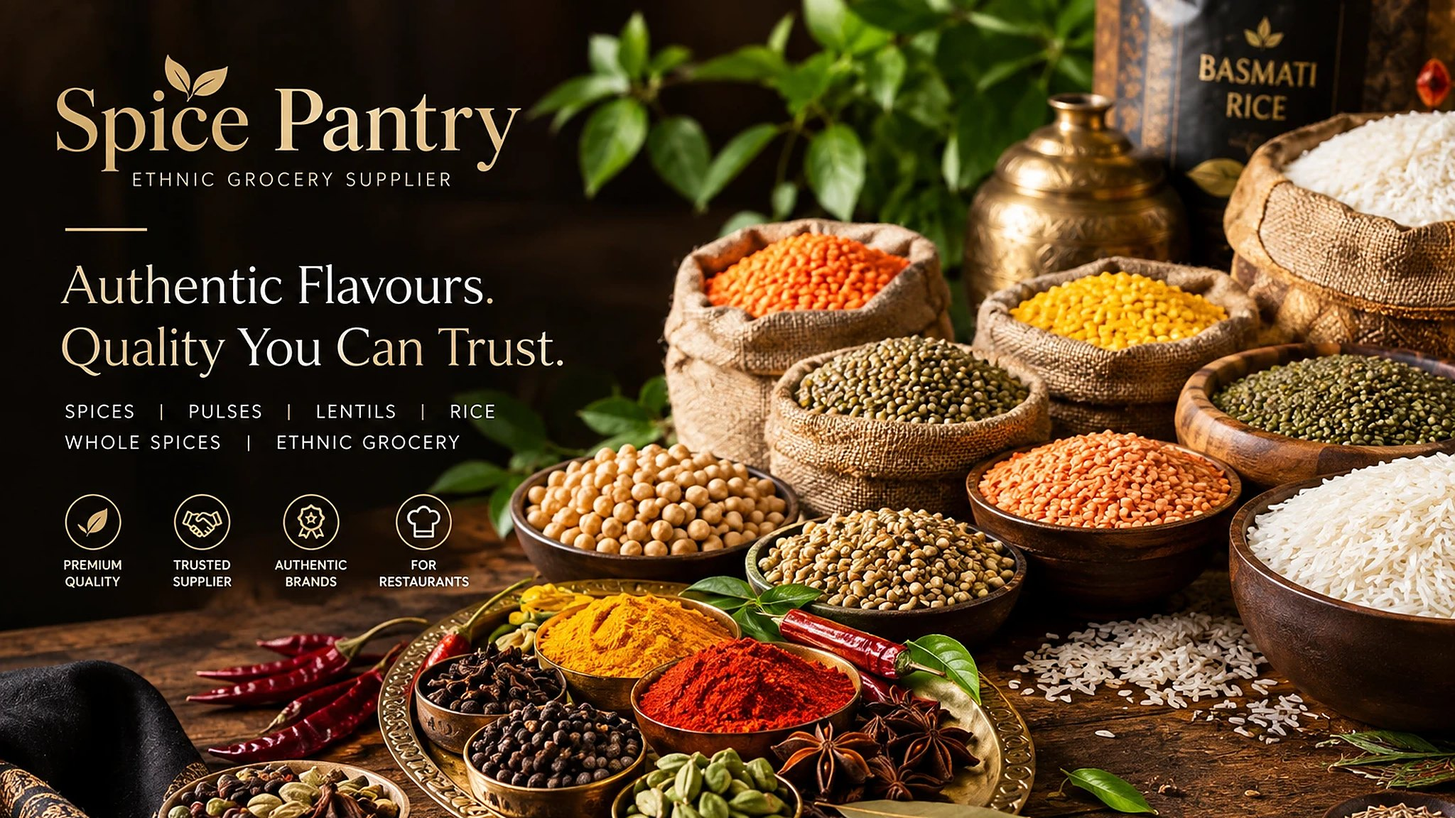
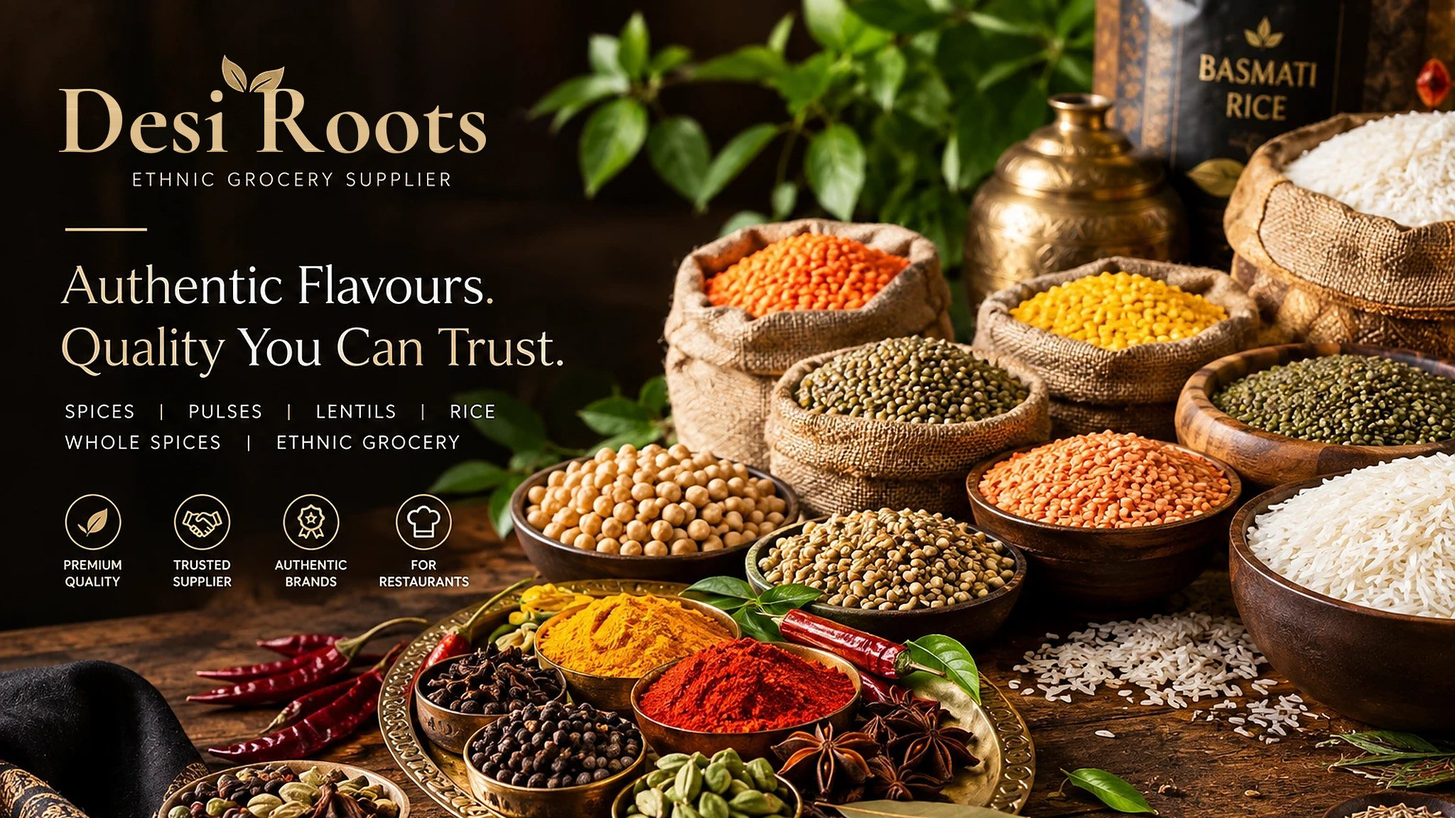
Rename the website from Spice Pantry to Desi Roots
"Spice Pantry" is a registered UK trade mark of another company, so the
site now uses the company's own name. The logo, tab icon, homepage
banners and link-preview image keep their design with the name redrawn.
Page titles, footer, legal pages, enquiry emails and admin titles updated.

Changed region(s): [[0.0312, 0.0625, 0.3438, 0.2188]]

diff --git a/templates/base.html b/templates/base.html
@@ -5,7 +5,7 @@
   <meta charset="UTF-8">
   <meta name="viewport" content="width=device-width, initial-scale=1.0">
   
-  <title>{% block meta_title %}Spice Pantry | Premium Spices & B2B Wholesale Catalogue{% endblock %}</title>
+  <title>{% block meta_title %}Desi Roots | Premium Spices & B2B Wholesale Catalogue{% endblock %}</title>
   <meta name="description" content="{% block meta_description %}Wholesale spices, lentils, rice, flour and ethnic groceries for restaurants and retailers in Bristol and nearby areas. Browse the catalogue and request a quote.{% endblock %}">
   
   <!-- Canonical URL -->
@@ -13,13 +13,13 @@
 
   <!-- Link previews (WhatsApp, Facebook, LinkedIn, X) -->
   <meta property="og:type" content="website">
-  <meta property="og:site_name" content="Spice Pantry">
+  <meta property="og:site_name" content="Desi Roots">
   <meta property="og:locale" content="en_GB">
-  <meta property="og:title" content="{% block og_title %}Spice Pantry | Wholesale Spices &amp; Groceries Bristol{% endblock %}">
+  <meta property="og:title" content="{% block og_title %}Desi Roots | Wholesale Spices &amp; Groceries Bristol{% endblock %}">
   <meta property="og:description" content="{% block og_description %}Wholesale spices, lentils, rice, flour and ethnic groceries for restaurants and retailers in Bristol and nearby areas. Browse the catalogue and request a quote.{% endblock %}">
   <meta property="og:url" content="{{ request.build_absolute_uri }}">
   <meta property="og:image" content="{% block og_image %}{{ request.scheme }}://{{ request.get_host }}{% static 'images/og-share.jpg' %}{% endblock %}">
-  <meta property="og:image:alt" content="Spice Pantry, ethnic grocery supplier: bowls of spices, lentils and rice">
+  <meta property="og:image:alt" content="Desi Roots, ethnic grocery supplier: bowls of spices, lentils and rice">
   <meta name="twitter:card" content="summary_large_image">
 
   <!-- Organization JSON-LD -->
@@ -27,7 +27,7 @@
   {
     "@context": "https://schema.org",
     "@type": "Organization",
-    "name": "Spice Pantry",
+    "name": "Desi Roots",
     "legalName": "Desi Roots",{% if site_settings.vat_number %}
     "vatID": "{{ site_settings.vat_number|cut:' ' }}",{% endif %}
     "url": "{{ request.scheme }}://{{ request.get_host }}/",
@@ -75,8 +75,8 @@
   <nav class="navbar navbar-expand-xl sticky-top">
     <div class="container">
       <a class="navbar-brand d-inline-flex align-items-center" href="/">
-        <img src="{% static 'images/logo.png' %}" alt="Spice Pantry Logo" width="46" height="46" style="height: 46px; width: auto; max-width: 48px; object-fit: contain;" class="navbar-brand-logo me-2">
-        <span class="brand-text"><span>Spice</span> Pantry</span>
+        <img src="{% static 'images/logo.png' %}" alt="Desi Roots Logo" width="46" height="46" style="height: 46px; width: auto; max-width: 48px; object-fit: contain;" class="navbar-brand-logo me-2">
+        <span class="brand-text"><span>Desi</span> Roots</span>
       </a>
       <a href="/contact/" class="btn btn-primary btn-sm text-white text-nowrap d-xl-none sp-nav-quote"><span class="d-none d-sm-inline">Request </span>Quote</a>
       <button class="navbar-toggler flex-shrink-0" type="button" data-bs-toggle="collapse" data-bs-target="#navbarNav" aria-controls="navbarNav" aria-expanded="false" aria-label="Toggle navigation">
@@ -123,9 +123,9 @@
         <div class="col-lg-4 col-md-6">
           <div class="footer-brand-wrap mb-3">
             <a class="footer-brand d-inline-flex align-items-center gap-3 text-white text-decoration-none" href="/">
-              <img src="{% static 'images/logo.png' %}" alt="Spice Pantry Logo" width="52" height="52" style="height: 52px; width: auto; max-width: 52px; object-fit: contain;" class="footer-logo-img rounded-2 bg-white p-1">
+              <img src="{% static 'images/logo.png' %}" alt="Desi Roots Logo" width="52" height="52" style="height: 52px; width: auto; max-width: 52px; object-fit: contain;" class="footer-logo-img rounded-2 bg-white p-1">
               <div>
-                <span class="fs-5 fw-bold text-white d-block" style="font-family: var(--sp-font-head); letter-spacing: 0.05em;"><span style="color: var(--sp-saffron);">Spice</span> Pantry</span>
+                <span class="fs-5 fw-bold text-white d-block" style="font-family: var(--sp-font-head); letter-spacing: 0.05em;"><span style="color: var(--sp-saffron);">Desi</span> Roots</span>
                 <small class="text-white-50 text-uppercase" style="font-size: 0.72rem; letter-spacing: 0.08em;">Wholesale Spices & Groceries</small>
               </div>
             </a>
@@ -201,7 +201,7 @@
       
       <div class="footer-bottom">
         {# Company details a UK company website must show (Companies House record for Desi Roots Ltd) #}
-        <p class="footer-legal">&copy; 2026 Spice Pantry, a trading name of Desi Roots Ltd. Registered in England and Wales, company no. 16939222. Registered office: 23 Halls Garden, Stoke Gifford, Bristol, BS34 8RJ.{% if site_settings.vat_number %} VAT no. {{ site_settings.vat_number }}.{% endif %}</p>
+        <p class="footer-legal">&copy; 2026 Desi Roots Ltd. Registered in England and Wales, company no. 16939222. Registered office: 23 Halls Garden, Stoke Gifford, Bristol, BS34 8RJ.{% if site_settings.vat_number %} VAT no. {{ site_settings.vat_number }}.{% endif %}</p>
         <nav class="footer-policy-links" aria-label="Legal">
           <a href="/privacy/">Privacy Policy</a>
           <a href="/cookies/">Cookie Policy</a>

diff --git a/templates/pages/legal/privacy.html b/templates/pages/legal/privacy.html
@@ -1,9 +1,9 @@
 {% extends 'base.html' %}
 
-{% block meta_title %}Privacy Policy | Spice Pantry{% endblock %}
-{% block meta_description %}How Desi Roots Ltd, trading as Spice Pantry, collects, uses and protects personal information.{% endblock %}
-{% block og_title %}Privacy Policy | Spice Pantry{% endblock %}
-{% block og_description %}How Desi Roots Ltd, trading as Spice Pantry, collects, uses and protects personal information.{% endblock %}
+{% block meta_title %}Privacy Policy | Desi Roots{% endblock %}
+{% block meta_description %}How Desi Roots Ltd collects, uses and protects personal information.{% endblock %}
+{% block og_title %}Privacy Policy | Desi Roots{% endblock %}
+{% block og_description %}How Desi Roots Ltd collects, uses and protects personal information.{% endblock %}
 
 {% block content %}
 <div class="py-5 bg-light border-bottom border-sp">
@@ -20,12 +20,12 @@
         {# Text supplied by the business (SPICE PANTRY.docx, 19 October 2026); publish wording unchanged #}
         <div class="bg-white p-4 p-md-5 border border-sp rounded">
           <h2 class="h5 fw-semibold mb-3">1.1 Introduction</h2>
-          <p class="text-muted">Desi Roots Ltd trading under Spice Pantry (“Spice Pantry”, “we”, “us” or “our”) respects your privacy and is committed to protecting your personal information.</p>
+          <p class="text-muted">Desi Roots Ltd (“Desi Roots”, “we”, “us” or “our”) respects your privacy and is committed to protecting your personal information.</p>
           <p class="text-muted">This Privacy Policy explains how we collect, use, store and protect personal information when you visit our website, create an account, place an order, contact us or use our services.</p>
           <p class="text-muted">We process personal information in accordance with applicable UK data protection law, including the UK General Data Protection Regulation (UK GDPR) and the Data Protection Act 2018.</p>
           <h2 class="h5 fw-semibold mb-3 mt-4">1.2 Who we are</h2>
           <p class="text-muted">The data controller responsible for your personal information is:</p>
-          <p class="text-muted"><b>Desi Roots Ltd trading under Spice Pantry</b><br>
+          <p class="text-muted"><b>Desi Roots Ltd</b><br>
 23 Halls Garden, Bristol, BS34 8RJ, United Kingdom<br>
 Email: <a href="mailto:{{ site_settings.email_address }}">{{ site_settings.email_address }}</a></p>
           <p class="text-muted">Company registration number: 16939222.</p>
@@ -132,7 +132,7 @@ Email: <a href="mailto:{{ site_settings.email_address }}">{{ site_settings.email
           <p class="text-muted">We may update this policy from time to time to reflect changes to our business, website, services or legal obligations. The updated version will be published on this page with a revised date.</p>
           <h2 class="h5 fw-semibold mb-3 mt-4">1.18 Contact us</h2>
           <p class="text-muted">For questions about this Privacy Policy or how we use your personal information, contact:</p>
-          <p class="text-muted"><b>Desi Roots Ltd trading under Spice Pantry</b><br>
+          <p class="text-muted"><b>Desi Roots Ltd</b><br>
 23 Halls Garden, Bristol, BS34 8RJ, United Kingdom<br>
 Email: <a href="mailto:{{ site_settings.email_address }}">{{ site_settings.email_address }}</a></p>
         </div>

diff --git a/templates/pages/legal/terms.html b/templates/pages/legal/terms.html
@@ -1,9 +1,9 @@
 {% extends 'base.html' %}
 
-{% block meta_title %}Terms &amp; Conditions | Spice Pantry{% endblock %}
-{% block meta_description %}The terms that apply to using the Spice Pantry website, operated by Desi Roots Ltd.{% endblock %}
-{% block og_title %}Terms &amp; Conditions | Spice Pantry{% endblock %}
-{% block og_description %}The terms that apply to using the Spice Pantry website, operated by Desi Roots Ltd.{% endblock %}
+{% block meta_title %}Terms &amp; Conditions | Desi Roots{% endblock %}
+{% block meta_description %}The terms that apply to using the Desi Roots website, operated by Desi Roots Ltd.{% endblock %}
+{% block og_title %}Terms &amp; Conditions | Desi Roots{% endblock %}
+{% block og_description %}The terms that apply to using the Desi Roots website, operated by Desi Roots Ltd.{% endblock %}
 
 {% block content %}
 <div class="py-5 bg-light border-bottom border-sp">
@@ -20,7 +20,7 @@
         {# Text supplied by the business (SPICE PANTRY.docx, 19 October 2026); publish wording unchanged #}
         <div class="bg-white p-4 p-md-5 border border-sp rounded">
           <h2 class="h5 fw-semibold mb-3">2.1 About us</h2>
-          <p class="text-muted">This website is operated by Desi Roots Ltd trading under Spice Pantry (“Spice Pantry”, “we”, “us” or “our”).</p>
+          <p class="text-muted">This website is operated by Desi Roots Ltd (“Desi Roots”, “we”, “us” or “our”).</p>
           <p class="text-muted">Company registration number: 16939222<br>
 Address: 23 Halls Garden, Bristol, BS34 8RJ, United Kingdom<br>
 Email: <a href="mailto:{{ site_settings.email_address }}">{{ site_settings.email_address }}</a></p>
@@ -79,7 +79,7 @@ Email: <a href="mailto:{{ site_settings.email_address }}">{{ site_settings.email
           <p class="text-muted">You agree not to misuse our website, attempt unauthorised access, interfere with its operation or use it for fraudulent or unlawful purposes.</p>
           <p class="text-muted">We may suspend access where reasonably necessary to protect the website, our customers or our business.</p>
           <h2 class="h5 fw-semibold mb-3 mt-4">2.11 Intellectual property</h2>
-          <p class="text-muted">Unless otherwise stated, website text, original images, branding, design and other content created for Spice Pantry are owned by us or used with permission.</p>
+          <p class="text-muted">Unless otherwise stated, website text, original images, branding, design and other content created for Desi Roots are owned by us or used with permission.</p>
           <p class="text-muted">You may not reproduce or commercially use our original content without prior written permission, except where permitted by law.</p>
           <p class="text-muted">Third-party product names, trademarks and logos belong to their respective owners. Their appearance on our website does not necessarily imply sponsorship or endorsement.</p>
           <h2 class="h5 fw-semibold mb-3 mt-4">2.12 Liability</h2>

diff --git a/templates/pages/home.html b/templates/pages/home.html
@@ -1,15 +1,15 @@
 {% extends 'base.html' %}
 {% load static %}
 
-{% block meta_title %}Spice Pantry | Wholesale Spices & Groceries Bristol{% endblock %}
-{% block meta_description %}Spice Pantry supplies wholesale spices, lentils, rice, flour and ethnic groceries to restaurants and retailers in Bristol and nearby areas.{% endblock %}
-{% block og_title %}Spice Pantry | Wholesale Spices &amp; Groceries Bristol{% endblock %}
-{% block og_description %}Spice Pantry supplies wholesale spices, lentils, rice, flour and ethnic groceries to restaurants and retailers in Bristol and nearby areas.{% endblock %}
+{% block meta_title %}Desi Roots | Wholesale Spices & Groceries Bristol{% endblock %}
+{% block meta_description %}Desi Roots supplies wholesale spices, lentils, rice, flour and ethnic groceries to restaurants and retailers in Bristol and nearby areas.{% endblock %}
+{% block og_title %}Desi Roots | Wholesale Spices &amp; Groceries Bristol{% endblock %}
+{% block og_description %}Desi Roots supplies wholesale spices, lentils, rice, flour and ethnic groceries to restaurants and retailers in Bristol and nearby areas.{% endblock %}
 
 {% block content %}
 <!-- Hero Section -->
 <div class="sp-hero-wrapper overflow-hidden text-white">
-  <h1 class="visually-hidden">Spice Pantry | Wholesale Spices & Groceries Bristol — Desi Roots Ltd</h1>
+  <h1 class="visually-hidden">Desi Roots | Wholesale Spices & Groceries Bristol</h1>
   <div class="container sp-hero-container">
     <div class="row">
       {# The buttons line up under the text on the left of the photo; centred on phones #}
@@ -29,11 +29,11 @@
   </div>
 </div>
 
-<!-- Why Choose Spice Pantry -->
+<!-- Why Choose Desi Roots -->
 <div class="py-5 bg-white border-bottom border-sp">
   <div class="container py-4">
     <div class="text-center mb-5">
-      <h2 class="h3 fw-semibold text-dark">Why Choose Spice Pantry</h2>
+      <h2 class="h3 fw-semibold text-dark">Why Choose Desi Roots</h2>
       <p class="text-muted">A professional wholesale supplier designed for busy commercial kitchens.</p>
     </div>
     
@@ -312,7 +312,7 @@
 <!-- Contact Call to Action Banner -->
 <div class="py-5 bg-olive text-white">
   <div class="container py-4 text-center">
-    <h2 class="h3 fw-semibold mb-2">Shop with Spice Pantry</h2>
+    <h2 class="h3 fw-semibold mb-2">Shop with Desi Roots</h2>
     <p class="mb-4 text-white-50 px-lg-5">Interested in opening a commercial account? Get in touch with us to receive personalized wholesale price list offerings based on your business purchase volume.</p>
     <div class="d-flex flex-wrap justify-content-center gap-3">
       {% if site_settings.phone_number %}

diff --git a/templates/catalogue/product_list.html b/templates/catalogue/product_list.html
@@ -1,10 +1,10 @@
 {% extends 'base.html' %}
 {% load static %}
 
-{% block meta_title %}{% if active_filters.category %}{{ active_filters.category.name }} | {% elif active_filters.brand %}{{ active_filters.brand.name }} | {% endif %}Wholesale Product Catalogue | Spice Pantry{% endblock %}
-{% block meta_description %}{% if active_filters.category %}Wholesale {{ active_filters.category.name|lower }} for restaurants and retailers in Bristol and nearby areas. Browse the range and request a quote from Spice Pantry.{% elif active_filters.brand %}{{ active_filters.brand.name }} products available wholesale from Spice Pantry in Bristol. Browse the range and request a quote.{% else %}Browse Spice Pantry's wholesale catalogue of spices, lentils, rice, flour, snacks and ethnic groceries. Request a quote for trade pricing.{% endif %}{% endblock %}
-{% block og_title %}{% if active_filters.category %}{{ active_filters.category.name }} | {% elif active_filters.brand %}{{ active_filters.brand.name }} | {% endif %}Wholesale Product Catalogue | Spice Pantry{% endblock %}
-{% block og_description %}Browse Spice Pantry's wholesale catalogue of spices, lentils, rice, flour, snacks and ethnic groceries. Request a quote for trade pricing.{% endblock %}
+{% block meta_title %}{% if active_filters.category %}{{ active_filters.category.name }} | {% elif active_filters.brand %}{{ active_filters.brand.name }} | {% endif %}Wholesale Product Catalogue | Desi Roots{% endblock %}
+{% block meta_description %}{% if active_filters.category %}Wholesale {{ active_filters.category.name|lower }} for restaurants and retailers in Bristol and nearby areas. Browse the range and request a quote from Desi Roots.{% elif active_filters.brand %}{{ active_filters.brand.name }} products available wholesale from Desi Roots in Bristol. Browse the range and request a quote.{% else %}Browse Desi Roots's wholesale catalogue of spices, lentils, rice, flour, snacks and ethnic groceries. Request a quote for trade pricing.{% endif %}{% endblock %}
+{% block og_title %}{% if active_filters.category %}{{ active_filters.category.name }} | {% elif active_filters.brand %}{{ active_filters.brand.name }} | {% endif %}Wholesale Product Catalogue | Desi Roots{% endblock %}
+{% block og_description %}Browse Desi Roots's wholesale catalogue of spices, lentils, rice, flour, snacks and ethnic groceries. Request a quote for trade pricing.{% endblock %}
 
 {% block content %}
 <div class="py-4 py-md-5 bg-light border-bottom border-sp">

diff --git a/templates/pages/about.html b/templates/pages/about.html
@@ -1,14 +1,14 @@
 {% extends 'base.html' %}
 
-{% block meta_title %}About Us | Spice Pantry{% endblock %}
-{% block meta_description %}About Spice Pantry, the trading name of Desi Roots Ltd: a Bristol wholesale supplier of spices and ethnic groceries for food businesses.{% endblock %}
-{% block og_title %}About Us | Spice Pantry{% endblock %}
-{% block og_description %}About Spice Pantry, the trading name of Desi Roots Ltd: a Bristol wholesale supplier of spices and ethnic groceries for food businesses.{% endblock %}
+{% block meta_title %}About Us | Desi Roots{% endblock %}
+{% block meta_description %}About Desi Roots Ltd: a Bristol wholesale supplier of spices and ethnic groceries for food businesses.{% endblock %}
+{% block og_title %}About Us | Desi Roots{% endblock %}
+{% block og_description %}About Desi Roots Ltd: a Bristol wholesale supplier of spices and ethnic groceries for food businesses.{% endblock %}
 
 {% block content %}
 <div class="py-5 bg-light border-bottom border-sp">
   <div class="container text-center">
-    <h1 class="h2 mb-2">About Spice Pantry</h1>
+    <h1 class="h2 mb-2">About Desi Roots</h1>
     <p class="text-muted mb-0">Learn about our mission, quality commitments, and local operations.</p>
   </div>
 </div>
@@ -19,7 +19,7 @@
       <div class="col-lg-6">
         <h2 class="h3 fw-semibold text-dark mb-3">Our Roots</h2>
         <p class="text-muted">
-          Spice Pantry is the trading brand of <strong>Desi Roots</strong>, a dedicated food and grocery wholesaler based in Bristol, United Kingdom. We specialize in supplying commercial kitchens, restaurants, caterers, supermarkets, and grocery shops with top-quality dry goods.
+          <strong>Desi Roots</strong> is a dedicated food and grocery wholesaler based in Bristol, United Kingdom. We specialize in supplying commercial kitchens, restaurants, caterers, supermarkets, and grocery shops with top-quality dry goods.
         </p>
         <p class="text-muted">
           Our core selection includes six major product lines: <strong>Rice, Spices, Flour, Oils, Lentils, and Pickles</strong>. By sourcing products directly and managing our own local storage and distribution fleet, we ensure competitive pricing, maximum product freshness, and reliable delivery service.

diff --git a/templates/catalogue/product_detail.html b/templates/catalogue/product_detail.html
@@ -1,10 +1,10 @@
 {% extends 'base.html' %}
 {% load static %}
 
-{% block meta_title %}{{ product.meta_title|default:product.name|add:" Wholesale | Spice Pantry" }}{% endblock %}
-{% block meta_description %}{% if product.meta_description %}{{ product.meta_description }}{% elif product.description %}{{ product.description|truncatechars:155 }}{% else %}{{ product.name }} available wholesale from Spice Pantry, supplying restaurants and retailers in Bristol and nearby areas. Request a quote.{% endif %}{% endblock %}
-{% block og_title %}{{ product.meta_title|default:product.name|add:" Wholesale | Spice Pantry" }}{% endblock %}
-{% block og_description %}{{ product.name }} available wholesale from Spice Pantry, supplying restaurants and retailers in Bristol and nearby areas.{% endblock %}
+{% block meta_title %}{{ product.meta_title|default:product.name|add:" Wholesale | Desi Roots" }}{% endblock %}
+{% block meta_description %}{% if product.meta_description %}{{ product.meta_description }}{% elif product.description %}{{ product.description|truncatechars:155 }}{% else %}{{ product.name }} available wholesale from Desi Roots, supplying restaurants and retailers in Bristol and nearby areas. Request a quote.{% endif %}{% endblock %}
+{% block og_title %}{{ product.meta_title|default:product.name|add:" Wholesale | Desi Roots" }}{% endblock %}
+{% block og_description %}{{ product.name }} available wholesale from Desi Roots, supplying restaurants and retailers in Bristol and nearby areas.{% endblock %}
 {% block og_image %}{% if primary_image %}{{ request.scheme }}://{{ request.get_host }}{{ primary_image.image.url }}{% else %}{{ block.super }}{% endif %}{% endblock %}
 
 {% block extra_head %}
@@ -20,7 +20,7 @@
   "mpn": "{{ product.sku }}",
   {% endif %}  "brand": {
     "@type": "Brand",
-    "name": "{{ product.brand.name|default:'Spice Pantry' }}"
+    "name": "{{ product.brand.name|default:'Desi Roots' }}"
   },
   "offers": {
     "@type": "Offer",

diff --git a/templates/500.html b/templates/500.html
@@ -5,7 +5,7 @@
   <meta charset="UTF-8">
   <meta name="viewport" content="width=device-width, initial-scale=1.0">
   <meta name="robots" content="noindex">
-  <title>Something Went Wrong | Spice Pantry</title>
+  <title>Something Went Wrong | Desi Roots</title>
   <link href="https://fonts.googleapis.com/css2?family=Inter:wght@400;500;600&family=Poppins:wght@500;600;700&display=swap" rel="stylesheet">
   <link href="https://cdn.jsdelivr.net/npm/bootstrap@5.3.3/dist/css/bootstrap.min.css" rel="stylesheet" integrity="sha384-QWTKZyjpPEjISv5WaRU9OFeRpok6YctnYmDr5pNlyT2bRjXh0JMhjY6hW+ALEwIH" crossorigin="anonymous">
   <link href="{% static 'css/style.css' %}" rel="stylesheet">
@@ -13,7 +13,7 @@
 <body>
   <main class="min-vh-100 d-flex align-items-center">
     <div class="container py-5 text-center">
-      <p class="mb-4"><a href="/" class="brand-text text-decoration-none fs-4"><span>Spice</span> Pantry</a></p>
+      <p class="mb-4"><a href="/" class="brand-text text-decoration-none fs-4"><span>Desi</span> Roots</a></p>
       <p class="text-saffron fw-semibold text-uppercase small mb-2">Error 500</p>
       <h1 class="h2 mb-3">Sorry, something went wrong on our side</h1>
       <p class="text-muted mb-4">Please try again in a few minutes. If it keeps happening, use the contact page to let us know.</p>

diff --git a/templates/enquiries/thank_you.html b/templates/enquiries/thank_you.html
@@ -1,15 +1,15 @@
 {% extends 'base.html' %}
 
-{% block meta_title %}Enquiry Submitted | Spice Pantry{% endblock %}
-{% block meta_description %}Thank you for your enquiry. The Spice Pantry team will be in touch.{% endblock %}
-{% block og_title %}Enquiry Submitted | Spice Pantry{% endblock %}
-{% block og_description %}Thank you for your enquiry. The Spice Pantry team will be in touch.{% endblock %}
+{% block meta_title %}Enquiry Submitted | Desi Roots{% endblock %}
+{% block meta_description %}Thank you for your enquiry. The Desi Roots team will be in touch.{% endblock %}
+{% block og_title %}Enquiry Submitted | Desi Roots{% endblock %}
+{% block og_description %}Thank you for your enquiry. The Desi Roots team will be in touch.{% endblock %}
 
 {% block content %}
 <div class="py-5 bg-light border-bottom border-sp">
   <div class="container text-center">
     <h1 class="h2 mb-2">Request Submitted</h1>
-    <p class="text-muted mb-0">Thank you for your interest in Spice Pantry.</p>
+    <p class="text-muted mb-0">Thank you for your interest in Desi Roots.</p>
   </div>
 </div>
 

diff --git a/templates/pages/faq.html b/templates/pages/faq.html
@@ -1,9 +1,9 @@
 {% extends 'base.html' %}
 
-{% block meta_title %}Frequently Asked Questions | Spice Pantry{% endblock %}
-{% block meta_description %}Answers to common questions about wholesale accounts, quotes and deliveries from Spice Pantry in Bristol.{% endblock %}
-{% block og_title %}Frequently Asked Questions | Spice Pantry{% endblock %}
-{% block og_description %}Answers to common questions about wholesale accounts, quotes and deliveries from Spice Pantry in Bristol.{% endblock %}
+{% block meta_title %}Frequently Asked Questions | Desi Roots{% endblock %}
+{% block meta_description %}Answers to common questions about wholesale accounts, quotes and deliveries from Desi Roots in Bristol.{% endblock %}
+{% block og_title %}Frequently Asked Questions | Desi Roots{% endblock %}
+{% block og_description %}Answers to common questions about wholesale accounts, quotes and deliveries from Desi Roots in Bristol.{% endblock %}
 
 {% block content %}
 <div class="py-5 bg-light border-bottom border-sp">

diff --git a/templates/catalogue/brand_list.html b/templates/catalogue/brand_list.html
@@ -1,9 +1,9 @@
 {% extends 'base.html' %}
 
-{% block meta_title %}Featured Brands | Spice Pantry{% endblock %}
-{% block meta_description %}The spice and grocery brands Spice Pantry supplies wholesale, including Heera, TRS, East End, Fudco, MDH and Shan.{% endblock %}
-{% block og_title %}Featured Brands | Spice Pantry{% endblock %}
-{% block og_description %}The spice and grocery brands Spice Pantry supplies wholesale, including Heera, TRS, East End, Fudco, MDH and Shan.{% endblock %}
+{% block meta_title %}Featured Brands | Desi Roots{% endblock %}
+{% block meta_description %}The spice and grocery brands Desi Roots supplies wholesale, including Heera, TRS, East End, Fudco, MDH and Shan.{% endblock %}
+{% block og_title %}Featured Brands | Desi Roots{% endblock %}
+{% block og_description %}The spice and grocery brands Desi Roots supplies wholesale, including Heera, TRS, East End, Fudco, MDH and Shan.{% endblock %}
 
 {% block content %}
 <div class="py-5 bg-light border-bottom border-sp">

diff --git a/templates/pages/contact.html b/templates/pages/contact.html
@@ -1,10 +1,10 @@
 {% extends 'base.html' %}
 {% load crispy_forms_tags %}
 
-{% block meta_title %}Contact Us | Spice Pantry{% endblock %}
-{% block meta_description %}Contact Spice Pantry by phone, WhatsApp or email, or send a wholesale enquiry for trade pricing.{% endblock %}
-{% block og_title %}Contact Us | Spice Pantry{% endblock %}
-{% block og_description %}Contact Spice Pantry by phone, WhatsApp or email, or send a wholesale enquiry for trade pricing.{% endblock %}
+{% block meta_title %}Contact Us | Desi Roots{% endblock %}
+{% block meta_description %}Contact Desi Roots by phone, WhatsApp or email, or send a wholesale enquiry for trade pricing.{% endblock %}
+{% block og_title %}Contact Us | Desi Roots{% endblock %}
+{% block og_description %}Contact Desi Roots by phone, WhatsApp or email, or send a wholesale enquiry for trade pricing.{% endblock %}
 
 
 
